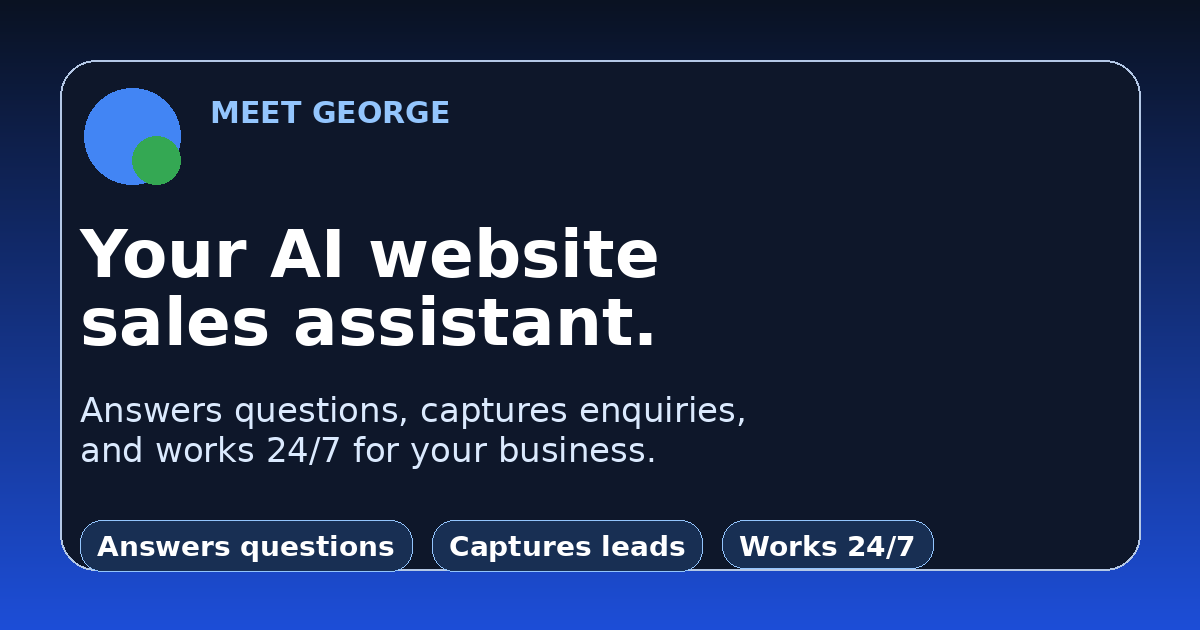
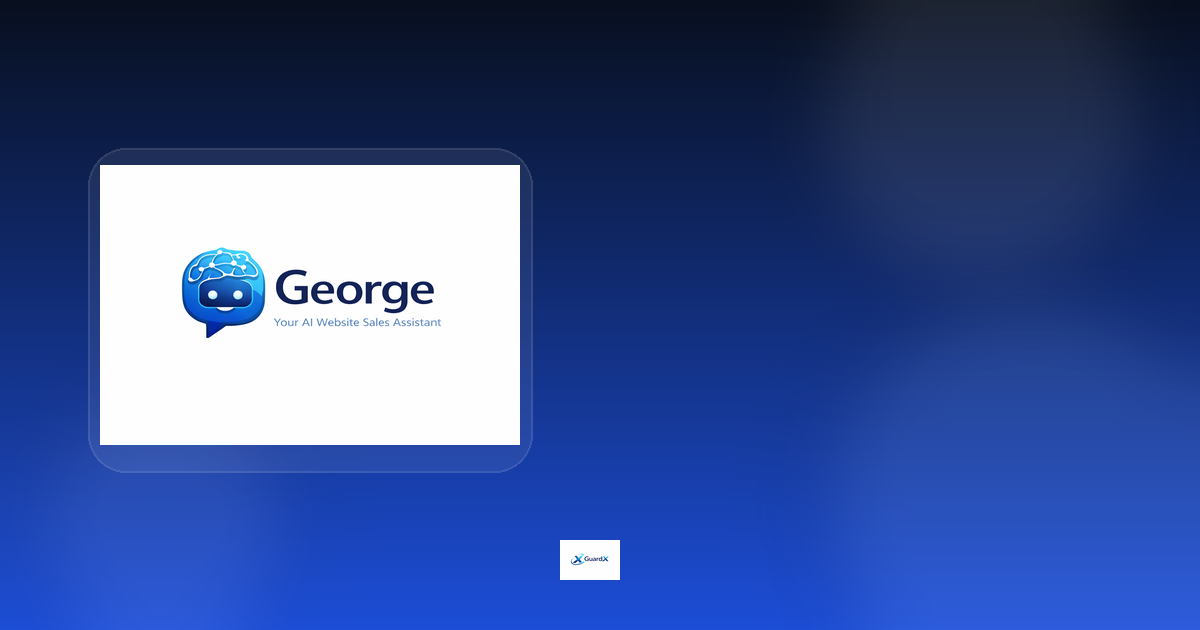
l

diff --git a/app/page.tsx b/app/page.tsx
@@ -1,8 +1,39 @@
 import Image from "next/image"
 import Link from "next/link"
+import type { Metadata } from "next"
 import { Navigation } from "@/components/navigation"
 import { Footer } from "@/components/footer"
 import { ArrowRight, Bot, CheckCircle2, Clock3, MessageSquare, PhoneCall, Sparkles, Zap } from "lucide-react"
+
+
+export const metadata: Metadata = {
+  title: "Meet George | 24/7 AI Assistant for Business Websites",
+  description:
+    "Meet George, your 24/7 AI assistant for business websites. He answers questions, explains services, gives pricing guidance, and captures enquiries.",
+  alternates: { canonical: "https://guardxnetwork.com" },
+  openGraph: {
+    title: "Meet George | 24/7 AI Assistant for Business Websites",
+    description:
+      "Meet George, your 24/7 AI assistant for business websites. He answers questions, explains services, gives pricing guidance, and captures enquiries.",
+    url: "https://guardxnetwork.com",
+    type: "website",
+    images: [
+      {
+        url: "https://guardxnetwork.com/george-preview.png?v=7",
+        width: 1200,
+        height: 630,
+        alt: "Meet George, your AI assistant",
+      },
+    ],
+  },
+  twitter: {
+    card: "summary_large_image",
+    title: "Meet George | 24/7 AI Assistant for Business Websites",
+    description:
+      "Meet George, your 24/7 AI assistant for business websites. He answers questions, explains services, gives pricing guidance, and captures enquiries.",
+    images: ["https://guardxnetwork.com/george-preview.png?v=7"],
+  },
+}
 
 const included = [
   "Fast, modern website built for your business",
@@ -36,16 +67,15 @@ export default function HomePage() {
               </div>
 
               <h1 className="max-w-4xl text-balance text-4xl font-extrabold tracking-tight text-[#0F172A] sm:text-5xl lg:text-6xl">
-                Turn your website into a 24/7 salesperson.
+                Turn your website into a 24/7 AI receptionist.
               </h1>
 
               <p className="mt-6 max-w-3xl text-lg leading-8 text-[#475569] sm:text-xl">
-                Meet George — an AI assistant that answers customer questions and captures enquiries automatically.
+                Meet George — an AI assistant that answers questions, explains services, gives pricing guidance, and captures enquiries for your business.
               </p>
 
               <p className="mt-5 max-w-3xl text-base leading-7 text-[#475569] sm:text-lg">
-                Ask George about {questions.join(", ")}. Instead of making visitors dig through page after page,
-                George can guide them, answer them, and help turn more of your traffic into real enquiries.
+                Ask George about {questions.join(", ")}. He can help people understand what you do, what it costs, how it works, and what to do next — without them needing to dig through page after page.
               </p>
 
               <div className="mt-8 flex flex-col gap-4 sm:flex-row">
@@ -60,7 +90,7 @@ export default function HomePage() {
                   href="/pricing"
                   className="inline-flex items-center justify-center rounded-2xl border border-[#D1D5DB] bg-white px-7 py-4 text-base font-semibold text-[#0F172A] transition hover:border-[#BFDBFE] hover:bg-[#F8FAFC]"
                 >
-                  See what is included
+                  See how George helps
                 </Link>
               </div>
             </div>
@@ -70,18 +100,18 @@ export default function HomePage() {
                 <Image src="/george-logo.png" alt="George" width={220} height={80} className="h-14 w-auto sm:h-16" priority />
               </div>
               <p className="mt-3 max-w-2xl text-sm leading-6 text-[#DBEAFE] sm:text-base sm:leading-7">
-                George answers questions, captures enquiries, and helps turn website visitors into customers — day or night.
+                George works like a trained member of staff on your website. He can answer everyday questions, explain your services, give rough pricing, and guide people toward becoming an enquiry.
               </p>
               <p className="mt-4 text-sm font-semibold text-[#93C5FD] sm:text-base">
-                Ask George how he can answer customer questions and capture enquiries for you 24/7.
+                That means less missed enquiries, less repetitive answering, and a better experience for every visitor.
               </p>
               <div className="mt-6 rounded-2xl border border-white/10 bg-white/10 p-4 backdrop-blur">
                 <div className="flex items-start gap-3">
                   <Sparkles className="mt-1 h-5 w-5 text-[#BFDBFE]" />
                   <div>
-                    <p className="font-semibold text-white">Ask George about:</p>
+                    <p className="font-semibold text-white">For example, George can:</p>
                     <p className="mt-2 text-sm leading-6 text-[#DBEAFE]">
-                      Pricing, FAQs, contact details, how the website works, what is included, and how George could help your business handle enquiries.
+                      answer service questions, explain pricing, give opening information, handle FAQs, and collect the details needed for the business to follow up.
                     </p>
                   </div>
                 </div>
@@ -104,7 +134,7 @@ export default function HomePage() {
             <div>
               <p className="text-sm font-semibold uppercase tracking-[0.2em] text-[#1D4ED8]">Ask George</p>
               <p className="mt-2 text-xl font-semibold text-[#0F172A]">
-                Ask George how he can answer customer questions and capture enquiries for you 24/7.
+                See how George helps real businesses answer questions, explain services, and turn visitors into enquiries.
               </p>
             </div>
             <Link
@@ -125,10 +155,10 @@ export default function HomePage() {
               <p className="text-sm font-semibold uppercase tracking-[0.2em] text-[#1D4ED8]">George in action</p>
               <h2 className="mt-3 text-3xl font-bold tracking-tight text-[#0F172A] sm:text-4xl">Alderwood Ponds</h2>
               <p className="mt-4 text-lg leading-8 text-[#475569]">
-                George can answer visitor questions about fishing, camping, facilities, and bookings — helping a real business deal with the same questions people ask over and over again.
+                On Alderwood Ponds, George can answer questions about fishing prices, camping, facilities, rules, and bookings — the kind of everyday questions that normally take up the owner’s time.
               </p>
               <p className="mt-4 text-base leading-7 text-[#475569]">
-                That is the whole point: George takes the repetitive answering off the business owner and helps keep visitors engaged.
+                That is the point of George: he gives visitors instant answers, helps them understand what is available, and moves them closer to getting in touch or booking.
               </p>
               <div className="mt-6">
                 <Link
@@ -145,11 +175,11 @@ export default function HomePage() {
               <p className="text-sm font-semibold uppercase tracking-[0.2em] text-[#1D4ED8]">What George can do</p>
               <ul className="mt-5 space-y-4">
                 {[
-                  "Answer customer questions instantly",
-                  "Explain your services and pricing",
-                  "Give visitors contact information",
-                  "Capture enquiries through conversation",
-                  "Work even when you are busy or closed",
+                  "Answer everyday customer questions instantly",
+                  "Explain your services, rules, and pricing",
+                  "Give rough quotes and useful guidance",
+                  "Point visitors to the right next step",
+                  "Capture enquiries even when you are busy or closed",
                 ].map((point) => (
                   <li key={point} className="flex items-start gap-3">
                     <PhoneCall className="mt-0.5 h-5 w-5 flex-shrink-0 text-[#1D4ED8]" />
@@ -167,11 +197,10 @@ export default function HomePage() {
           <div className="max-w-3xl">
             <p className="text-sm font-semibold uppercase tracking-[0.2em] text-[#1D4ED8]">What is included</p>
             <h2 className="mt-3 text-3xl font-bold tracking-tight text-[#0F172A] sm:text-4xl">
-              A fast modern website, built properly, with George built in.
+              A website that actually helps people, with George built in.
             </h2>
             <p className="mt-4 text-lg leading-8 text-[#475569]">
-              This is not just a chatbot bolted on top. GuardX websites are built to look professional, load fast,
-              work well on mobile, and give your business a strong SEO foundation from the start.
+              This is not just a generic chatbot bolted on top. George is trained on your business, while the website itself is built to look professional, load fast, work well on mobile, and give you a strong foundation.
             </p>
           </div>
 
@@ -191,21 +220,21 @@ export default function HomePage() {
               <Zap className="h-8 w-8 text-[#1D4ED8]" />
               <h3 className="mt-4 text-lg font-bold text-[#0F172A]">Fast modern websites</h3>
               <p className="mt-2 text-sm leading-6 text-[#475569]">
-                Built using modern technology for speed, reliability, and a more professional feel than old template websites.
+                Built using modern technology for speed, reliability, and a stronger first impression than old template websites.
               </p>
             </div>
             <div className="rounded-2xl bg-[#F8FAFC] p-5">
               <MessageSquare className="h-8 w-8 text-[#1D4ED8]" />
               <h3 className="mt-4 text-lg font-bold text-[#0F172A]">George built into the site</h3>
               <p className="mt-2 text-sm leading-6 text-[#475569]">
-                George can answer questions about pricing, services, FAQs, and contact details without the visitor needing to dig around the site.
+                George can answer questions about services, pricing, FAQs, opening information, and contact details without the visitor digging around the site.
               </p>
             </div>
             <div className="rounded-2xl bg-[#F8FAFC] p-5">
               <Clock3 className="h-8 w-8 text-[#1D4ED8]" />
               <h3 className="mt-4 text-lg font-bold text-[#0F172A]">SEO foundation included</h3>
               <p className="mt-2 text-sm leading-6 text-[#475569]">
-                We do not offer ongoing SEO in this package, but we do build the website with the right structure, speed, and setup to give you a solid foundation.
+                We build the website with the right structure, speed, and setup to give you a solid foundation and make George easier for visitors to use.
               </p>
             </div>
           </div>
@@ -220,7 +249,7 @@ export default function HomePage() {
               Clear monthly pricing for a website powered by George.
             </h2>
             <p className="mt-4 text-lg leading-8 text-[#475569]">
-              The aim is simple: give your business a modern website with George built in, hosting included, and a proper foundation underneath it.
+              The aim is simple: give your business a modern website with a trained AI assistant built in, hosting included, and a proper foundation underneath it.
             </p>
           </div>
 
@@ -270,7 +299,7 @@ export default function HomePage() {
             <div>
               <p className="text-xs font-semibold uppercase tracking-[0.2em] text-[#1D4ED8]">Meet George</p>
               <p className="mt-1 text-sm font-semibold leading-6 text-[#0F172A] sm:text-base">
-                Ask George how he can answer customer questions and capture enquiries 24/7.
+                See how George answers questions, explains services, and captures enquiries for business websites.
               </p>
             </div>
             <Link

diff --git a/app/layout.tsx b/app/layout.tsx
@@ -13,11 +13,11 @@ const inter = Inter({
 
 export const metadata: Metadata = {
   title: {
-    default: "Web Design & SEO Foundation for Local Businesses | GuardX",
+    default: "Meet George | 24/7 AI Assistant for Business Websites | GuardX",
     template: "%s | GuardX",
   },
   description:
-    "Professional website design and SEO foundation for UK local businesses. Modern, fast websites built to generate enquiries.",
+    "Meet George, your 24/7 AI assistant for business websites. He answers questions, explains services, gives pricing guidance, and captures enquiries.",
   generator: "v0.app",
   icons: {
     icon: "/favicon.ico",
@@ -28,14 +28,14 @@ export const metadata: Metadata = {
     type: "website",
     locale: "en_GB",
     url: "https://guardxnetwork.com",
-    images: [{ url: "/og-image.png", width: 1200, height: 630, alt: "GuardX" }],
+    images: [{ url: "/george-preview.png?v=7", width: 1200, height: 630, alt: "Meet George, your AI assistant" }],
   },
   twitter: {
     card: "summary_large_image",
-    title: "Web Design & SEO Foundation for Local Businesses | GuardX",
+    title: "Meet George | 24/7 AI Assistant for Business Websites | GuardX",
     description:
-      "Professional website design and SEO foundation for UK local businesses. Modern, fast websites built to generate enquiries.",
-    images: ["/og-image.png"],
+      "Meet George, your 24/7 AI assistant for business websites. He answers questions, explains services, gives pricing guidance, and captures enquiries.",
+    images: ["/george-preview.png?v=7"],
   },
   alternates: { canonical: "https://guardxnetwork.com" },
   robots: {
@@ -102,7 +102,7 @@ export default function RootLayout({
             "url": "https://www.guardxnetwork.com",
             "logo": "https://www.guardxnetwork.com/images/guardx-logo.png",
             "image": "https://www.guardxnetwork.com/images/guardx-logo.png",
-            "description": "Website design, SEO foundation, and review generation services for UK local businesses.",
+            "description": "Meet George, the AI assistant that answers questions, explains services, gives pricing guidance, and captures enquiries for business websites.",
             "areaServed": {
               "@type": "Country",
               "name": "United Kingdom"

diff --git a/app/meet-george/page.tsx b/app/meet-george/page.tsx
@@ -5,28 +5,28 @@ import { GeorgeLiveAssistant } from "@/components/george-live-assistant"
 import { Navigation } from "@/components/navigation"
 
 export const metadata: Metadata = {
-  title: "Meet George",
-  description: "Ask George how he can answer customer questions and capture enquiries for you 24/7.",
+  title: "Meet George | 24/7 AI Assistant for Business Websites",
+  description: "Meet George, the AI assistant that answers questions, explains services, gives pricing guidance, and captures enquiries for business websites.",
   alternates: { canonical: "https://guardxnetwork.com/meet-george" },
   openGraph: {
-    title: "Meet George",
-    description: "Ask George how he can answer customer questions and capture enquiries for you 24/7.",
+    title: "Meet George | 24/7 AI Assistant for Business Websites",
+    description: "Meet George, the AI assistant that answers questions, explains services, gives pricing guidance, and captures enquiries for business websites.",
     url: "https://guardxnetwork.com/meet-george",
     type: "website",
     images: [
       {
-        url: "https://guardxnetwork.com/george-preview.png?v=5",
+        url: "https://guardxnetwork.com/george-preview.png?v=7",
         width: 1200,
         height: 630,
-        alt: "Meet George",
+        alt: "Meet George, your AI assistant",
       },
     ],
   },
   twitter: {
     card: "summary_large_image",
-    title: "Meet George",
-    description: "Ask George how he can answer customer questions and capture enquiries for you 24/7.",
-    images: ["https://guardxnetwork.com/george-preview.png?v=5"],
+    title: "Meet George | 24/7 AI Assistant for Business Websites",
+    description: "Meet George, the AI assistant that answers questions, explains services, gives pricing guidance, and captures enquiries for business websites.",
+    images: ["https://guardxnetwork.com/george-preview.png?v=7"],
   },
 }
 
